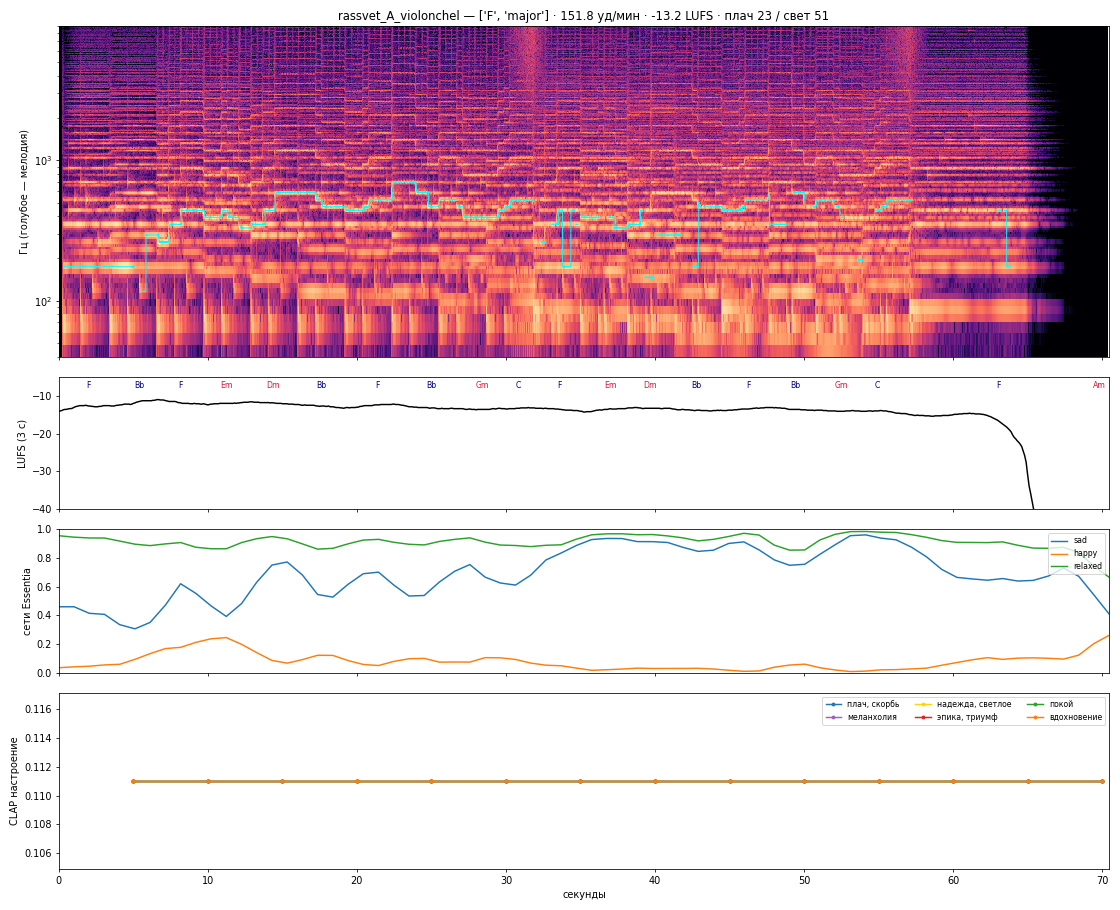
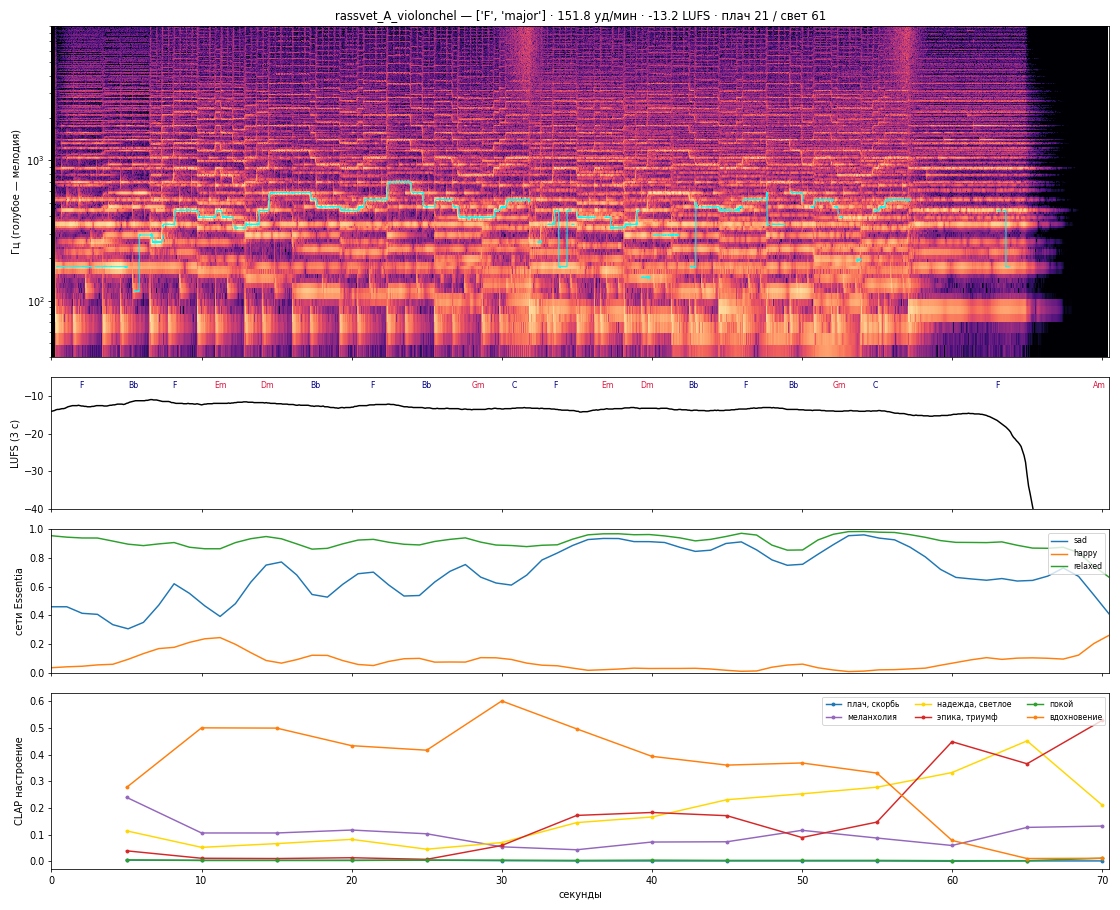
muzyka-sluh result

diff --git a/out/rassvet_A_violonchel.md b/out/rassvet_A_violonchel.md
@@ -2,14 +2,16 @@
 
 Длина 70.5 с · темп 151.8 уд/мин · громкость -13.2 LUFS (разброс 3.2 LU) · пик -1.96 дБFS
 
-**Плач-индекс: 23**  ·  **Свет-индекс: 51**  (0–100; светлая спокойная музыка: плач < 35, свет > 55)
+**Плач-индекс: 21**  ·  **Свет-индекс: 61**  (0–100; светлая спокойная музыка: плач < 35, свет > 55)
 
 | признак плача | 0–1 |   | признак света | 0–1 |
 |---|---|---|---|---|
 | сеть «грусть» | 0.69 |   | сеть «радость» | 0.08 |
 | низкая валентность | 0.30 |   | валентность (1–9) | 0.37 |
-| доля минорных аккордов | 0.29 |   | доля мажорных аккордов | 0.71 |
-| подъезды к нотам | 0.20 |   | ходы мелодии вверх | 0.88 |
+| CLAP плач+меланхолия | 0.23 |   | CLAP надежда+радость+вдохн.+эпика | 1.00 |
+| CLAP голос плачет/воет | 0.08 |   | доля мажорных аккордов | 0.71 |
+| доля минорных аккордов | 0.29 |   | ходы мелодии вверх | 0.88 |
+| подъезды к нотам | 0.20 |   |  |  |
 | скольжения (портаменто) | 0.07 |   |  |  |
 | глубина вибрато | 0.00 |   |  |  |
 | медленные переходы | 0.00 |   |  |  |
@@ -32,11 +34,11 @@
 - genre: classical 0.32, soundtrack 0.26, electronic 0.20, easylistening 0.18, ambient 0.16, pop 0.15
 
 ## CLAP: на какое описание похоже (доли внутри набора)
-- настроение: меланхолия 0.11, надежда, светлое 0.11, тревога, мрак 0.11, нежность 0.11, вдохновение 0.11, радость 0.11, эпика, триумф 0.11, плач, скорбь 0.11, покой 0.11
-- голос: без голоса 0.20, голос плачет/воет 0.20, голос поёт спокойно 0.20, эфирный голос без слов 0.20, хор 0.20
-- звучание: синтезатор, MIDI 0.33, искажения, шум 0.33, живой оркестр, студия 0.33
-- стиль: фортепиано соло 0.17, медитация, нью-эйдж 0.17, классика, камерная 0.17, эмбиент, электроника 0.17, поп-песня 0.17, музыка к фильму 0.17
-- по окнам (10 с): 0с плач, скорбь | 5с плач, скорбь | 10с плач, скорбь | 15с плач, скорбь | 20с плач, скорбь | 25с плач, скорбь | 30с плач, скорбь | 35с плач, скорбь | 40с плач, скорбь | 45с плач, скорбь | 50с плач, скорбь | 55с плач, скорбь | 60с плач, скорбь | 65с плач, скорбь
+- настроение: вдохновение 0.34, надежда, светлое 0.18, эпика, триумф 0.16, радость 0.12, меланхолия 0.10, нежность 0.07, тревога, мрак 0.01, покой 0.00, плач, скорбь 0.00
+- голос: без голоса 0.46, голос поёт спокойно 0.23, эфирный голос без слов 0.15, хор 0.13, голос плачет/воет 0.03
+- звучание: синтезатор, MIDI 0.89, живой оркестр, студия 0.11, искажения, шум 0.00
+- стиль: поп-песня 0.45, медитация, нью-эйдж 0.41, эмбиент, электроника 0.07, музыка к фильму 0.04, фортепиано соло 0.01, классика, камерная 0.01
+- по окнам (10 с): 0с вдохновение | 5с вдохновение | 10с вдохновение | 15с вдохновение | 20с вдохновение | 25с вдохновение | 30с вдохновение | 35с вдохновение | 40с вдохновение | 45с вдохновение | 50с вдохновение | 55с эпика, триумф | 60с надежда, светлое | 65с эпика, триумф
 
 ## Лад и аккорды
 - тональность: krumhansl: F major (0.951), temperley: F major (0.903), edma: F major (0.888), bgate: F major (0.915)

diff --git a/out/rassvet_B_golos.md b/out/rassvet_B_golos.md
@@ -2,14 +2,16 @@
 
 Длина 70.5 с · темп 151.9 уд/мин · громкость -12.6 LUFS (разброс 2.4 LU) · пик -1.81 дБFS
 
-**Плач-индекс: 27**  ·  **Свет-индекс: 49**  (0–100; светлая спокойная музыка: плач < 35, свет > 55)
+**Плач-индекс: 27**  ·  **Свет-индекс: 59**  (0–100; светлая спокойная музыка: плач < 35, свет > 55)
 
 | признак плача | 0–1 |   | признак света | 0–1 |
 |---|---|---|---|---|
 | сеть «грусть» | 0.77 |   | сеть «радость» | 0.05 |
 | низкая валентность | 0.41 |   | валентность (1–9) | 0.25 |
-| доля минорных аккордов | 0.24 |   | доля мажорных аккордов | 0.76 |
-| подъезды к нотам | 0.28 |   | ходы мелодии вверх | 0.90 |
+| CLAP плач+меланхолия | 0.44 |   | CLAP надежда+радость+вдохн.+эпика | 1.00 |
+| CLAP голос плачет/воет | 0.07 |   | доля мажорных аккордов | 0.76 |
+| доля минорных аккордов | 0.24 |   | ходы мелодии вверх | 0.90 |
+| подъезды к нотам | 0.28 |   |  |  |
 | скольжения (портаменто) | 0.10 |   |  |  |
 | глубина вибрато | 0.00 |   |  |  |
 | медленные переходы | 0.00 |   |  |  |
@@ -32,11 +34,11 @@
 - genre: classical 0.28, soundtrack 0.25, ambient 0.21, electronic 0.20, easylistening 0.20, newage 0.16
 
 ## CLAP: на какое описание похоже (доли внутри набора)
-- настроение: надежда, светлое 0.11, тревога, мрак 0.11, нежность 0.11, эпика, триумф 0.11, вдохновение 0.11, меланхолия 0.11, радость 0.11, плач, скорбь 0.11, покой 0.11
-- голос: без голоса 0.20, голос плачет/воет 0.20, голос поёт спокойно 0.20, эфирный голос без слов 0.20, хор 0.20
-- звучание: синтезатор, MIDI 0.33, искажения, шум 0.33, живой оркестр, студия 0.33
-- стиль: фортепиано соло 0.17, медитация, нью-эйдж 0.17, классика, камерная 0.17, эмбиент, электроника 0.17, поп-песня 0.17, музыка к фильму 0.17
-- по окнам (10 с): 0с плач, скорбь | 5с плач, скорбь | 10с плач, скорбь | 15с плач, скорбь | 20с плач, скорбь | 25с плач, скорбь | 30с плач, скорбь | 35с плач, скорбь | 40с плач, скорбь | 45с плач, скорбь | 50с плач, скорбь | 55с плач, скорбь | 60с плач, скорбь | 65с плач, скорбь
+- настроение: вдохновение 0.37, меланхолия 0.18, надежда, светлое 0.13, нежность 0.11, радость 0.09, эпика, триумф 0.09, плач, скорбь 0.01, тревога, мрак 0.01, покой 0.01
+- голос: голос поёт спокойно 0.42, без голоса 0.32, эфирный голос без слов 0.17, хор 0.06, голос плачет/воет 0.03
+- звучание: синтезатор, MIDI 0.91, живой оркестр, студия 0.09, искажения, шум 0.00
+- стиль: медитация, нью-эйдж 0.53, поп-песня 0.33, эмбиент, электроника 0.09, музыка к фильму 0.03, фортепиано соло 0.01, классика, камерная 0.01
+- по окнам (10 с): 0с меланхолия | 5с вдохновение | 10с вдохновение | 15с вдохновение | 20с вдохновение | 25с вдохновение | 30с вдохновение | 35с вдохновение | 40с вдохновение | 45с вдохновение | 50с вдохновение | 55с эпика, триумф | 60с надежда, светлое | 65с эпика, триумф
 
 ## Лад и аккорды
 - тональность: krumhansl: F major (0.953), temperley: F major (0.92), edma: F major (0.888), bgate: F major (0.921)

diff --git a/out/svoboda_v1_plachet.md b/out/svoboda_v1_plachet.md
@@ -2,14 +2,16 @@
 
 Длина 72.47 с · темп 140.1 уд/мин · громкость -14.0 LUFS (разброс 6.4 LU) · пик -5.08 дБFS
 
-**Плач-индекс: 31**  ·  **Свет-индекс: 45**  (0–100; светлая спокойная музыка: плач < 35, свет > 55)
+**Плач-индекс: 34**  ·  **Свет-индекс: 56**  (0–100; светлая спокойная музыка: плач < 35, свет > 55)
 
 | признак плача | 0–1 |   | признак света | 0–1 |
 |---|---|---|---|---|
 | сеть «грусть» | 0.80 |   | сеть «радость» | 0.04 |
 | низкая валентность | 0.47 |   | валентность (1–9) | 0.20 |
-| доля минорных аккордов | 0.29 |   | доля мажорных аккордов | 0.71 |
-| подъезды к нотам | 0.16 |   | ходы мелодии вверх | 0.85 |
+| CLAP плач+меланхолия | 0.66 |   | CLAP надежда+радость+вдохн.+эпика | 1.00 |
+| CLAP голос плачет/воет | 0.18 |   | доля мажорных аккордов | 0.71 |
+| доля минорных аккордов | 0.29 |   | ходы мелодии вверх | 0.85 |
+| подъезды к нотам | 0.16 |   |  |  |
 | скольжения (портаменто) | 0.13 |   |  |  |
 | глубина вибрато | 0.01 |   |  |  |
 | медленные переходы | 0.20 |   |  |  |
@@ -32,11 +34,11 @@
 - genre: ambient 0.26, classical 0.23, soundtrack 0.23, easylistening 0.22, electronic 0.20, newage 0.17
 
 ## CLAP: на какое описание похоже (доли внутри набора)
-- настроение: меланхолия 0.11, тревога, мрак 0.11, нежность 0.11, эпика, триумф 0.11, вдохновение 0.11, надежда, светлое 0.11, радость 0.11, плач, скорбь 0.11, покой 0.11
-- голос: без голоса 0.20, голос плачет/воет 0.20, голос поёт спокойно 0.20, эфирный голос без слов 0.20, хор 0.20
-- звучание: синтезатор, MIDI 0.33, искажения, шум 0.33, живой оркестр, студия 0.33
-- стиль: медитация, нью-эйдж 0.17, фортепиано соло 0.17, классика, камерная 0.17, эмбиент, электроника 0.17, поп-песня 0.17, музыка к фильму 0.17
-- по окнам (10 с): 0с плач, скорбь | 5с плач, скорбь | 10с плач, скорбь | 15с плач, скорбь | 20с плач, скорбь | 25с плач, скорбь | 30с плач, скорбь | 35с плач, скорбь | 40с плач, скорбь | 45с плач, скорбь | 50с плач, скорбь | 55с плач, скорбь | 60с плач, скорбь | 65с плач, скорбь
+- настроение: вдохновение 0.35, меланхолия 0.24, радость 0.12, нежность 0.11, надежда, светлое 0.06, плач, скорбь 0.05, эпика, триумф 0.04, тревога, мрак 0.01, покой 0.01
+- голос: голос поёт спокойно 0.47, эфирный голос без слов 0.25, без голоса 0.14, голос плачет/воет 0.07, хор 0.06
+- звучание: синтезатор, MIDI 0.81, живой оркестр, студия 0.18, искажения, шум 0.00
+- стиль: медитация, нью-эйдж 0.59, поп-песня 0.27, эмбиент, электроника 0.11, музыка к фильму 0.02, классика, камерная 0.00, фортепиано соло 0.00
+- по окнам (10 с): 0с вдохновение | 5с вдохновение | 10с вдохновение | 15с вдохновение | 20с вдохновение | 25с вдохновение | 30с вдохновение | 35с вдохновение | 40с вдохновение | 45с вдохновение | 50с вдохновение | 55с вдохновение | 60с меланхолия | 65с эпика, триумф
 
 ## Лад и аккорды
 - тональность: krumhansl: F major (0.94), temperley: F major (0.862), edma: F major (0.879), bgate: F major (0.914)

diff --git a/out/summary.md b/out/summary.md
@@ -2,6 +2,6 @@
 
 | файл | с | лад | темп | LUFS | грусть | радость | валентн. | CLAP главное | плач | свет | подъезды | вибрато |
 |---|---|---|---|---|---|---|---|---|---|---|---|---|
-| rassvet_A_violonchel | 70.5 | F major | 151.8 | -13.2 | 0.69 | 0.08 | 4.60 | меланхолия 0.11, надежда, светлое 0.11 | 23 | 51 | 0.10 | 0.05 |
-| rassvet_B_golos | 70.5 | F major | 151.9 | -12.6 | 0.77 | 0.05 | 4.26 | надежда, светлое 0.11, тревога, мрак 0.11 | 27 | 49 | 0.14 | 0.04 |
-| svoboda_v1_plachet | 72.47 | F major | 140.1 | -14.0 | 0.80 | 0.04 | 4.09 | меланхолия 0.11, тревога, мрак 0.11 | 31 | 45 | 0.08 | 0.10 |
+| rassvet_A_violonchel | 70.5 | F major | 151.8 | -13.2 | 0.69 | 0.08 | 4.60 | вдохновение 0.34, надежда, светлое 0.18 | 21 | 61 | 0.10 | 0.05 |
+| rassvet_B_golos | 70.5 | F major | 151.9 | -12.6 | 0.77 | 0.05 | 4.26 | вдохновение 0.37, меланхолия 0.18 | 27 | 59 | 0.14 | 0.04 |
+| svoboda_v1_plachet | 72.47 | F major | 140.1 | -14.0 | 0.80 | 0.04 | 4.09 | вдохновение 0.35, меланхолия 0.24 | 34 | 56 | 0.08 | 0.10 |
